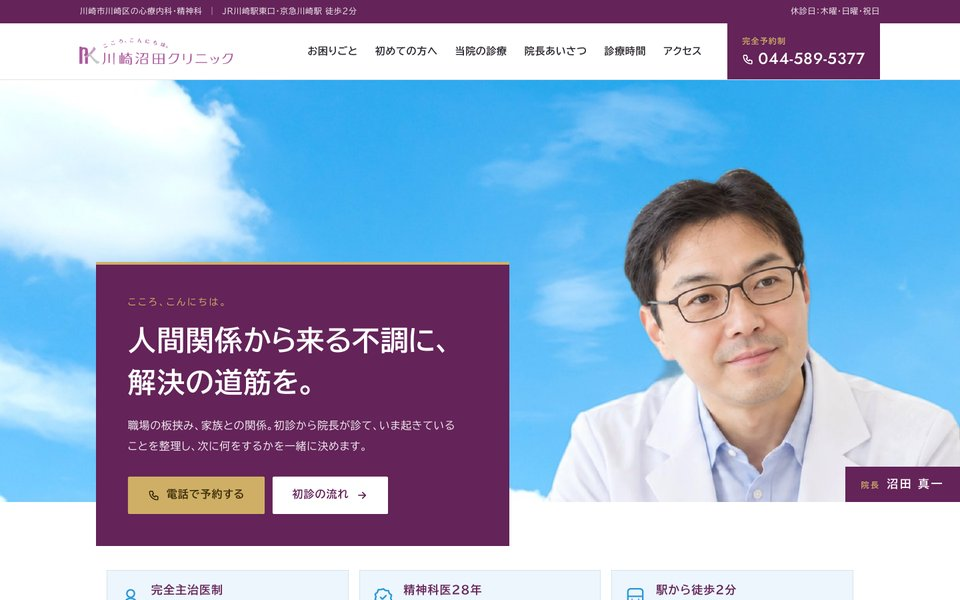
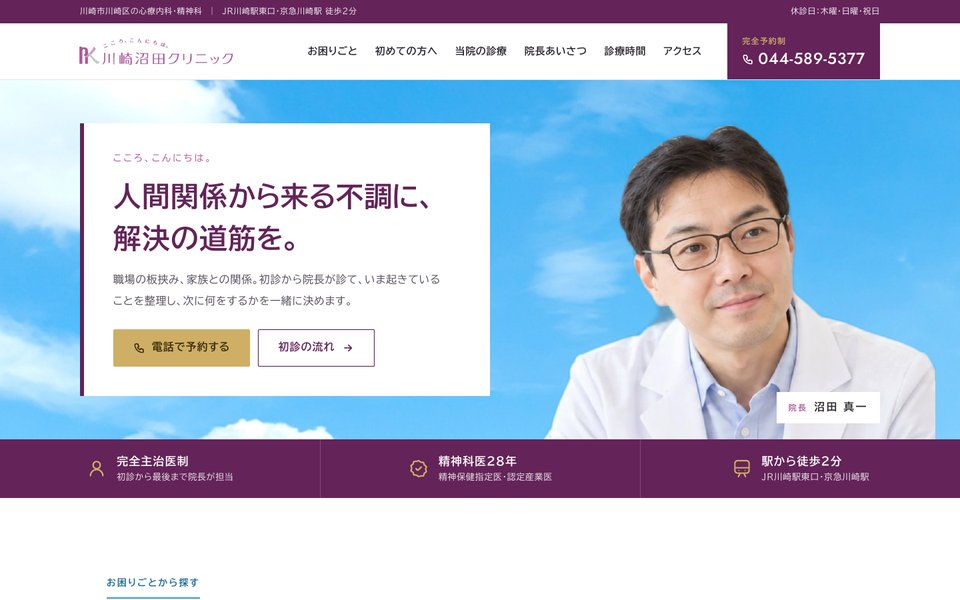
007：FVを引き締めた構成に変更（空の中に白いパネル＋紫の帯）
Claude-Session: https://claude.ai/code/session_01PqN1TRnnMqSdtr1dScAdhW

diff --git a/007/assets/css/style.css b/007/assets/css/style.css
@@ -73,21 +73,34 @@ table { border-collapse: collapse; }
 .header__menu { display: none; }
 .drawer { display: none; }
 
-/* ---------- FV：空＋紫の面 ---------- */
-.fv { position: relative; background: var(--white); }
-.fv__sky { position: relative; height: clamp(480px, 44vw, 640px); background: #5DB4E8 url(../img/sky.jpg) center 30% / cover no-repeat; overflow: hidden; }
-.fv__director { position: absolute; right: 0; bottom: 0; height: 80%; width: auto; max-width: none; }
-.fv__name { position: absolute; right: 0; bottom: 0; background: var(--plum); color: var(--white); padding: 10px 24px; font-size: 17px; font-weight: 700; letter-spacing: .14em; }
-.fv__name span { font-size: 12px; margin-right: 10px; color: var(--gold); }
-.fv__panel { position: relative; z-index: 2; width: min(620px, calc(100% - 48px)); margin: -360px 0 0 max(24px, calc((100vw - 1200px) / 2 + 24px)); background: var(--plum); color: var(--white); padding: 44px 48px 48px; border-top: 4px solid var(--gold); }
-.fv__brand { font-size: 14px; color: var(--gold); letter-spacing: .2em; }
-.fv__title { margin-top: 12px; font-size: clamp(30px, 3vw, 42px); font-weight: 700; line-height: 1.5; letter-spacing: .03em; }
-.fv__lead { margin-top: 18px; font-size: 16px; line-height: 1.95; color: rgba(255,255,255,.9); }
-.fv__btns { display: flex; flex-wrap: wrap; gap: 12px; margin-top: 28px; }
-.fv__facts { width: min(var(--wrap), calc(100% - 64px)); margin: 0 auto; display: grid; grid-template-columns: repeat(3, minmax(0, 1fr)); gap: 16px; padding: 36px 0 8px; }
-.fv__facts li { display: flex; gap: 14px; align-items: center; padding: 16px 18px; border: 1px solid var(--sky-line); background: var(--sky-pale); font-size: 13px; color: var(--ink-sub); line-height: 1.6; }
-.fv__facts .icon { font-size: 34px; color: var(--sky); stroke-width: 1.6; }
-.fv__facts strong { display: block; font-size: 17px; color: var(--plum); letter-spacing: .06em; }
+/* ---------- FV（共通） ---------- */
+.fv__stage { position: relative; overflow: hidden; background: #5DB4E8 url(../img/sky.jpg) center 35% / cover no-repeat; }
+.fv__inner { position: relative; width: min(1200px, calc(100% - 64px)); margin: 0 auto; display: grid; grid-template-columns: minmax(0, 1.05fr) minmax(0, 1fr); min-height: clamp(460px, 38vw, 540px); padding: 44px 0; }
+.fv__panel { position: relative; z-index: 2; align-self: center; }
+.fv__brand { font-size: 14px; letter-spacing: .2em; }
+.fv__title { margin-top: 12px; font-size: clamp(30px, 2.9vw, 42px); font-weight: 700; line-height: 1.5; letter-spacing: .03em; }
+.fv__lead { margin-top: 16px; font-size: 16px; line-height: 1.95; }
+.fv__btns { display: flex; flex-wrap: wrap; gap: 12px; margin-top: 26px; }
+.fv__person { position: relative; margin-bottom: -44px; }
+.fv__director { position: absolute; left: 50%; bottom: 0; transform: translateX(-46%); height: 96%; width: auto; max-width: none; }
+.fv__name { position: absolute; right: 0; bottom: 24px; background: var(--white); color: var(--ink); padding: 8px 18px; font-size: 16px; font-weight: 700; letter-spacing: .14em; }
+.fv__name span { font-size: 12px; margin-right: 10px; color: var(--purple); }
+.fv__facts { display: grid; grid-template-columns: repeat(3, minmax(0, 1fr)); }
+.fv__facts li { display: flex; gap: 14px; align-items: center; justify-content: center; padding: 20px 18px; font-size: 13px; line-height: 1.6; }
+.fv__facts .icon { font-size: 32px; stroke-width: 1.6; }
+.fv__facts strong { display: block; font-size: 17px; letter-spacing: .06em; }
+
+/* 空の中に白いパネル＋紫の帯 */
+.fv--a .fv__panel { background: var(--white); color: var(--ink); padding: 40px 44px 44px; border-left: 6px solid var(--plum); }
+.fv--a .fv__brand { color: var(--purple); }
+.fv--a .fv__title { color: var(--plum); }
+.fv--a .fv__lead { color: var(--ink-sub); }
+.fv--a .btn--sub { border: 1.5px solid var(--plum); color: var(--plum); }
+.fv--a .btn--sub:hover { background: var(--plum); color: var(--white); }
+.fv--a .fv__facts { background: var(--plum); color: rgba(255,255,255,.85); }
+.fv--a .fv__facts li + li { border-left: 1px solid rgba(255,255,255,.18); }
+.fv--a .fv__facts .icon { color: var(--gold); }
+.fv--a .fv__facts strong { color: var(--white); }
 
 /* ---------- セクション共通 ---------- */
 .sec { padding: clamp(72px, 8vw, 112px) 0; scroll-margin-top: var(--header-h); }
@@ -250,8 +263,8 @@ p, li, dd, h1, h2, h3, .trouble__title, .column span, .company__title { word-bre
   .drawer[hidden] { display: none; }
   .drawer__list a { display: block; padding: 14px 4px; border-bottom: 1px solid var(--line); text-decoration: none; font-weight: 700; }
   .drawer__tel { width: 100%; margin-top: 20px; }
-  .fv__panel { margin-top: -300px; }
-  .fv__director { height: 72%; }
+  .fv__inner { grid-template-columns: minmax(0, 1.2fr) minmax(0, .8fr); }
+  .fv--a .fv__panel { padding: 32px 32px 36px; }
   .head--split { grid-template-columns: minmax(0, 1fr); }
   .trouble { grid-template-columns: minmax(0, 1fr); }
   .policy { grid-template-columns: minmax(0, 1fr); }
@@ -263,20 +276,23 @@ p, li, dd, h1, h2, h3, .trouble__title, .column span, .company__title { word-bre
 /* ---------- スマホ ---------- */
 @media (max-width: 767px) {
   body { font-size: 15px; }
-  .wrap, .fv__facts { width: calc(100% - 40px); }
+  .wrap { width: calc(100% - 40px); }
   .header__inner { width: calc(100% - 32px); }
   .header__logo img { width: 168px; }
   .header__tel { display: none; }
-  .fv__sky { height: 360px; background-position: 20% 30%; }
-  .fv__director { height: 86%; right: -60px; }
+  .fv__inner { width: 100%; grid-template-columns: minmax(0, 1fr); min-height: 0; padding: 0; }
+  .fv__person { order: -1; height: 330px; margin-bottom: 0; }
+  .fv__director { height: 94%; transform: translateX(-40%); }
   .fv__name { display: none; }
-  .fv__panel { width: calc(100% - 20px); margin: -48px 0 0 0; padding: 30px 22px 32px; }
+  .fv__panel { padding: 30px 20px 34px; }
+  .fv--a .fv__panel { border-left: 0; border-top: 5px solid var(--plum); }
   .fv__title { font-size: 28px; }
   .fv__lead { font-size: 15px; }
   .fv__btns { flex-direction: column; }
   .fv__btns .btn { width: 100%; }
-  .fv__facts { grid-template-columns: minmax(0, 1fr); gap: 8px; padding-top: 24px; }
-  .fv__facts li { padding: 12px 14px; }
+  .fv__facts { grid-template-columns: minmax(0, 1fr); }
+  .fv__facts li { justify-content: flex-start; padding: 12px 20px; }
+  .fv--a .fv__facts li + li { border-left: 0; border-top: 1px solid rgba(255,255,255,.18); }
   .fv__facts .icon { font-size: 28px; }
   .fv__facts strong { font-size: 15px; }
   .sec { padding: 64px 0; }

diff --git a/007/index.html b/007/index.html
@@ -75,24 +75,28 @@
 
 <main id="main">
 
-  <section class="fv" aria-labelledby="fv-title">
-    <div class="fv__sky">
-      <img class="fv__director" src="assets/img/director-cut.webp" alt="院長 沼田真一" width="900" height="616">
-      <p class="fv__name"><span>院長</span>沼田 真<wbr>一</p>
-    </div>
-    <div class="fv__panel">
-      <p class="fv__brand">こころ、<wbr>こんにちは。</p>
-      <h1 class="fv__title dmoji" id="fv-title">人間関係から来る不調に、<br>解決の道筋を。</h1>
-      <p class="fv__lead">職場の<wbr>板挟み、<wbr>家族との<wbr>関係。<wbr>初診から<wbr>院長が<wbr>診て、<wbr>いま起きている<wbr>ことを<wbr>整理し、<wbr>次に<wbr>何を<wbr>するかを<wbr>一緒に<wbr>決めます。</p>
-      <div class="fv__btns">
-        <a class="btn btn--gold" href="tel:0445895377"><svg class="icon"><use href="#i-phone"/></svg><span class="dmoji dmoji-nw">電話で予約する</span></a>
-        <a class="btn btn--white" href="#first"><span class="dmoji dmoji-nw">初診の流れ</span><svg class="icon"><use href="#i-arrow"/></svg></a>
+  <section class="fv fv--a" aria-labelledby="fv-title">
+    <div class="fv__stage">
+      <div class="fv__inner">
+        <div class="fv__panel">
+          <p class="fv__brand">こころ、こんにちは。</p>
+          <h1 class="fv__title dmoji" id="fv-title">人間関係から来る不調に、<br>解決の道筋を。</h1>
+          <p class="fv__lead">職場の<wbr>板挟み、<wbr>家族との<wbr>関係。<wbr>初診から<wbr>院長が<wbr>診て、<wbr>いま起きている<wbr>ことを<wbr>整理し、<wbr>次に<wbr>何を<wbr>するかを<wbr>一緒に<wbr>決めます。</p>
+          <div class="fv__btns">
+            <a class="btn btn--gold" href="tel:0445895377"><svg class="icon"><use href="#i-phone"/></svg><span class="dmoji dmoji-nw">電話で予約する</span></a>
+            <a class="btn btn--sub" href="#first"><span class="dmoji dmoji-nw">初診の流れ</span><svg class="icon"><use href="#i-arrow"/></svg></a>
+          </div>
+        </div>
+        <div class="fv__person">
+          <img class="fv__director" src="assets/img/director-cut.webp" alt="院長 沼田真一" width="900" height="616">
+          <p class="fv__name"><span>院長</span>沼田 真一</p>
+        </div>
       </div>
     </div>
     <ul class="fv__facts">
-      <li><svg class="icon"><use href="#i-user"/></svg><span><strong>完全主<wbr>治医制</strong>初診から<wbr>最後まで<wbr>院長が<wbr>担当</span></li>
-      <li><svg class="icon"><use href="#i-badge"/></svg><span><strong>精神科医2<wbr>8年</strong>精神保健指定医・認定産業医</span></li>
-      <li><svg class="icon"><use href="#i-train"/></svg><span><strong>駅から<wbr>徒歩2分</strong>JR川崎駅<wbr>東口・京急川崎駅</span></li>
+      <li><svg class="icon"><use href="#i-user"/></svg><span><strong>完全主治医制</strong>初診から<wbr>最後まで<wbr>院長が<wbr>担当</span></li>
+      <li><svg class="icon"><use href="#i-badge"/></svg><span><strong>精神科医28年</strong>精神保健指定医・<wbr>認定産業医</span></li>
+      <li><svg class="icon"><use href="#i-train"/></svg><span><strong>駅から徒歩2分</strong>JR川崎駅<wbr>東口・<wbr>京急川崎駅</span></li>
     </ul>
   </section>
 
@@ -164,7 +168,7 @@
           <svg class="icon policy__icon"><use href="#i-user"/></svg>
           <p class="policy__num">01</p>
           <h3 class="policy__title dmoji">毎回<wbr>同じ<wbr>医師。<br>説明を繰り返さなくていい。</h3>
-          <p>完全主<wbr>治医制です。<wbr>初診から<wbr>通院を<wbr>終えるまで<wbr>院長が<wbr>担当するので、<wbr>経過を<wbr>一から<wbr>話し直す<wbr>必要が<wbr>ありません。<wbr>状況が<wbr>変わった<wbr>ときも、<wbr>すぐに<wbr>方針を<wbr>見直せます。</p>
+          <p>完全主治医制です。<wbr>初診から<wbr>通院を<wbr>終えるまで<wbr>院長が<wbr>担当するので、<wbr>経過を<wbr>一から<wbr>話し直す<wbr>必要が<wbr>ありません。<wbr>状況が<wbr>変わった<wbr>ときも、<wbr>すぐに<wbr>方針を<wbr>見直せます。</p>
         </article>
         <article class="policy__item">
           <svg class="icon policy__icon"><use href="#i-link"/></svg>
@@ -200,7 +204,7 @@
         </ul>
       </div>
       <div class="cta__tel-box">
-        <p class="cta__tel-label">完全予<wbr>約制　初診は<wbr>お電話で</p>
+        <p class="cta__tel-label">完全予約制　初診は<wbr>お電話で</p>
         <a class="cta__tel" href="tel:0445895377"><svg class="icon"><use href="#i-phone"/></svg>044-589-5377</a>
         <dl class="cta__time">
           <div><dt>平日</dt><dd>9:30–12:30<wbr>（初診の<wbr>予約は<wbr>12:15まで）<br>14:30–18:15</dd></div>
@@ -220,7 +224,7 @@
           <p>受診される<wbr>方の<wbr>多くは、<wbr>職場や<wbr>家族との<wbr>関係の<wbr>中で、<wbr>言いたい<wbr>ことを<wbr>言えないまま<wbr>追い<wbr>詰められています。<wbr>最初に<wbr>大切なのは、<wbr>いま何が<wbr>起きているかを<wbr>整理し、<wbr>次に<wbr>どう<wbr>動くかを<wbr>決める<wbr>ことです。</p>
           <p>当院では、<wbr>初診から<wbr>通院を<wbr>終えるまで<wbr>私が<wbr>担当します。<wbr>そのうえで、<wbr>話しにくいことも<wbr>少しずつ<wbr>伺っていきます。</p>
         </div>
-        <p class="greeting__sign">川崎沼田クリニック 院長<span>沼田 真<wbr>一</span></p>
+        <p class="greeting__sign">川崎沼田クリニック 院長<span>沼田 真一</span></p>
         <a class="link" href="https://kawasaki-numata.jp/%E3%81%94%E6%8C%A8%E6%8B%B6">院長のごあいさつ全文<svg class="icon"><use href="#i-arrow"/></svg></a>
       </div>
       <figure class="greeting__photo">
@@ -309,7 +313,7 @@
   <div class="wrap footer__inner">
     <div class="footer__clinic">
       <p class="footer__name">川崎沼田クリニック</p>
-      <p>心療内科・精神科　完全予<wbr>約制</p>
+      <p>心療内科・精神科　完全予約制</p>
       <p>〒210-0006 神奈川県川崎市川崎区砂子<span class="nw">2-11-20</span> <span class="nw">加瀬ビル133 4F</span></p>
       <p>TEL <a href="tel:0445895377">044-589-5377</a></p>
     </div>
